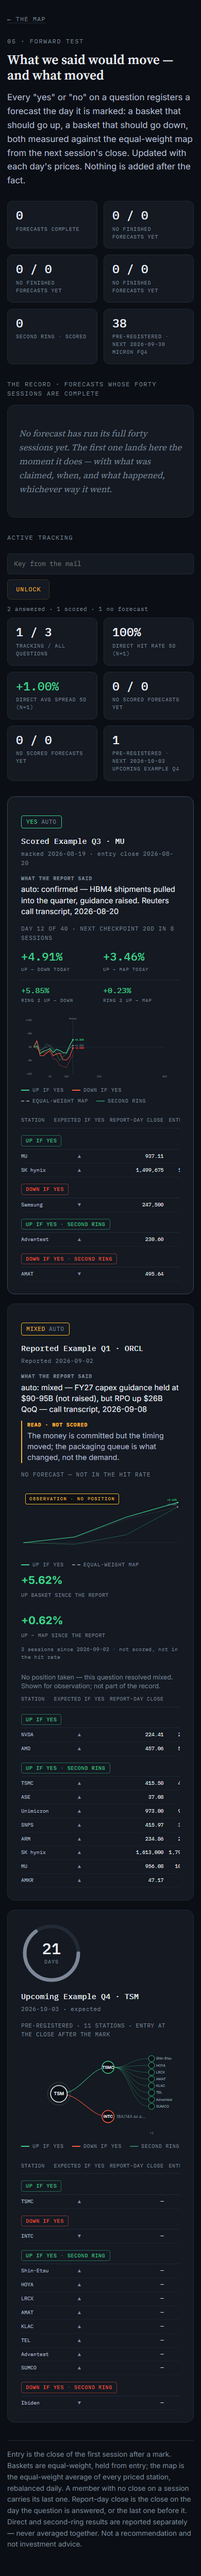
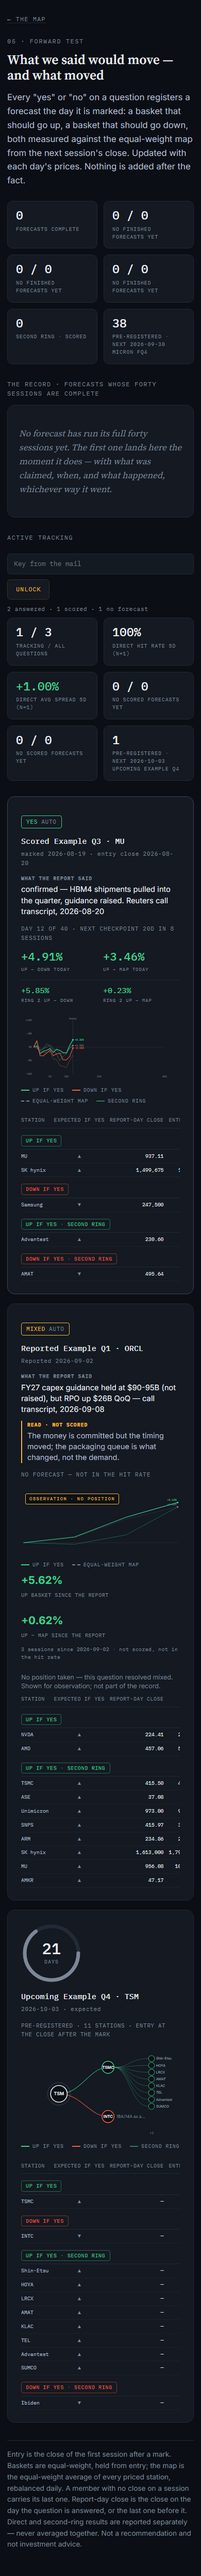
The findings read as a sentence, and one session is still an observation
Two small things on the reported card.

The findings block printed the note exactly as the marking task writes it,
which opens "auto: mixed — ". The pill beside it already says MIXED and says
AUTO, so the sentence spent its first four words repeating the two things the
reader had just read. Stripped at display time and only there: marks.json
keeps every character, and the strip is careful enough that "auto: no source
found on 2026-09-11" loses the prefix and keeps the "no".

And the chart. The previous commit suppressed the whole observation block when
only the report's own close existed, on the theory that a flat line at zero
reads as a measurement. It does -- but an empty middle column with no
explanation reads as a chart that failed, which is worse. One session now
draws a single dot on the baseline and says "first move prints after the next
close", which is the honest version of the same point. Two or more sessions
draw the lines as before.

Worth recording because it nearly became a wrong bug report: the live card was
never missing its chart. The store CI builds from had closes on the 10th and
the 11th, so Oracle already had its two points and its lines. What was missing
was the one-session case, and it only showed up locally, where the price store
stops on the 8th and every build this session has been --skip-prices.

1046 tests, 31 assertions on the answered card.

Claude-Session: https://claude.ai/code/session_01Rqj13fqRcXtz4RkFFBaV82

Changed region(s): [[0.0923, 0.5283, 0.8, 0.5593], [0.1231, 0.3418, 0.6769, 0.3729], [0.7077, 0.3418, 0.8308, 0.3729]]

diff --git a/chains/templates/track-cards.js b/chains/templates/track-cards.js
@@ -225,7 +225,22 @@
   // it.
   function observedChart(r){
     const o = r.observed;
-    if(!o || !o.dates || o.dates.length < 2) return '';
+    if(!o || !o.dates || !o.dates.length) return '';
+    if(o.dates.length < 2){
+      // The report's own close and nothing after it yet. A dot on the zero
+      // line, and a sentence saying so -- an empty column would leave the
+      // reader wondering whether the chart had failed.
+      const cx = CW/2, cy = CH/2;
+      return `<div class="chart obschart">
+        <span class="obsband">Observation · no position</span>
+        <svg viewBox="0 0 ${CW} ${CH}">
+          <line x1="8" x2="${CW-8}" y1="${cy}" y2="${cy}" stroke="#ffffff22" stroke-width="1"/>
+          <circle cx="${cx}" cy="${cy}" r="4" fill="${UP}"/>
+          <text x="${cx+9}" y="${cy+4}" font-family="IBM Plex Mono,monospace" font-size="10" fill="${UP}">0.00%</text>
+        </svg></div>
+        <p class="obsfoot">First move prints after the next close · `
+        + `baselined on ${esc(o.from)}</p>`;
+    }
     const keys = [['ew', MAP, 1, ' stroke-dasharray="3 3"'],
                   ['lose', DN, 1.6, ''], ['win2', UP, 1, ''],
                   ['win', UP, 1.9, '']];
@@ -334,8 +349,16 @@
   // What the report said, in the marking task's own words. The build writes
   // none of this: an empty field renders nothing rather than a heading over a
   // blank.
+  // The stored note opens "auto: mixed — ...", which is how the marking task
+  // writes it and how it stays in the file. On the card both halves are
+  // already said by the pill beside it -- MIXED, AUTO -- so printing them
+  // again is the sentence apologising for itself before it starts. Stripped
+  // for display and nowhere else: marks.json keeps every character.
+  const AUTO_PREFIX = /^\s*auto:\s*(?:(?:mixed|none|yes|no)\s*[—–-]\s*)?/i;
+  const sayClean = t => String(t || '').trim().replace(AUTO_PREFIX, '').trim();
+
   function findings(r){
-    const said = String(r.note || r.evidence || '').trim();
+    const said = sayClean(r.note || r.evidence);
     const read = String(r.read || '').trim();
     if(!said && !read) return '';
     let out = '';

diff --git a/tests/test_track.py b/tests/test_track.py
@@ -1165,13 +1165,17 @@ def test_a_mixed_answer_with_an_observation_still_moves_no_tile(book):
         assert only[k] == both[k], k
 
 
-def test_no_observation_until_a_session_closes_after_the_report(book):
-    """A report with no close after it has nothing to observe. A one-point
-    chart is a flat line at zero, which reads as a measurement and is the
-    absence of one."""
+def test_one_session_is_still_an_observation(book):
+    """A report with no close after it yet keeps its block, with a single
+    point on the baseline. The page draws a dot at zero and says the first
+    move prints after the next close -- an empty column would read as a chart
+    that failed rather than one with a day in it."""
     late = CAL[-1].isoformat()          # the last session in the store
     r = one(book, [q("a", late, ["up"], ["down"])], [],
             {"a": {"status": "mixed", "note": "auto: mixed — x. Reuters "
                                               + late}})
     assert r["state"] == "reported"
-    assert "observed" not in r or r["observed"] is None
+    o = r["observed"]
+    assert o is not None
+    assert len(o["dates"]) == 1 and o["sessions"] == 0
+    assert o["up"] == 0.0 and o["up_ew"] == 0.0

diff --git a/chains/track.py b/chains/track.py
@@ -226,11 +226,12 @@ def _observed(legs: dict, doc: dict, book, symbol_of: dict,
     if base is None:
         return None
     window = [x for x in cal if x >= base][:MAX_POINTS + 1]
-    # One point is not an observation. Until a session closes AFTER the report
-    # there is nothing to have observed, and a chart of a single day would be
-    # a flat line at zero with a headline of 0.00% -- which reads as a
-    # measurement and is the absence of one.
-    if len(window) < 2:
+    # One point is allowed and says so on the page: a single dot on the zero
+    # line, and a sentence that the first move prints after the next close.
+    # The earlier version suppressed the whole block here, which left a card
+    # with an empty middle column and no explanation of why -- worse than a
+    # chart that admits it has one day in it.
+    if not window:
         return None
 
     def syms(ids):
